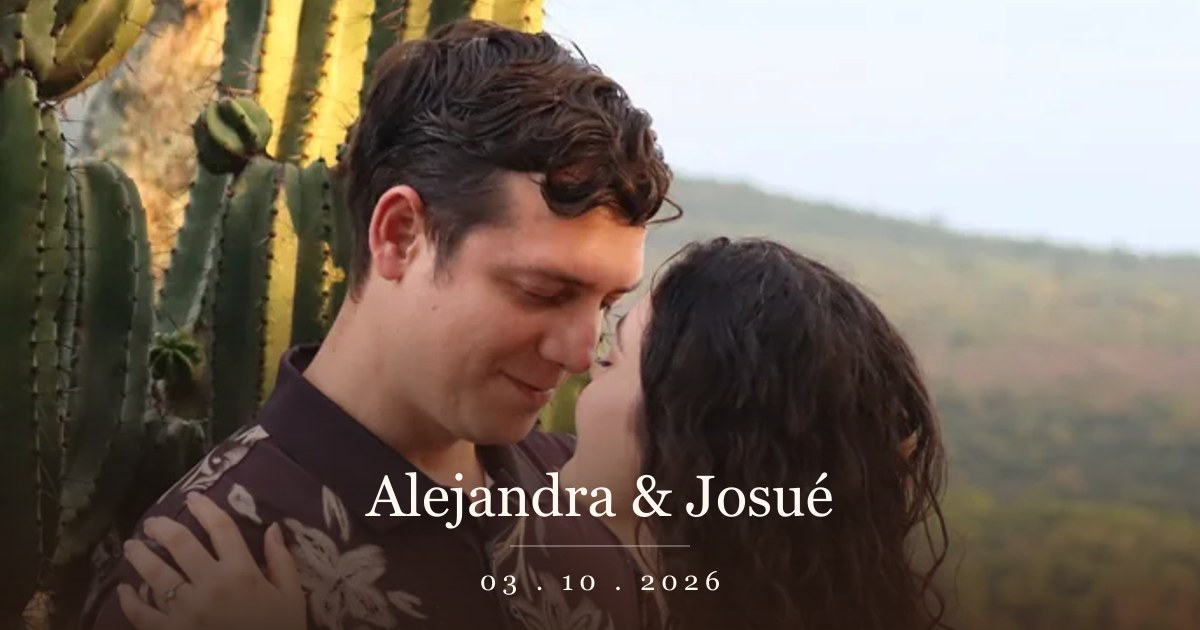
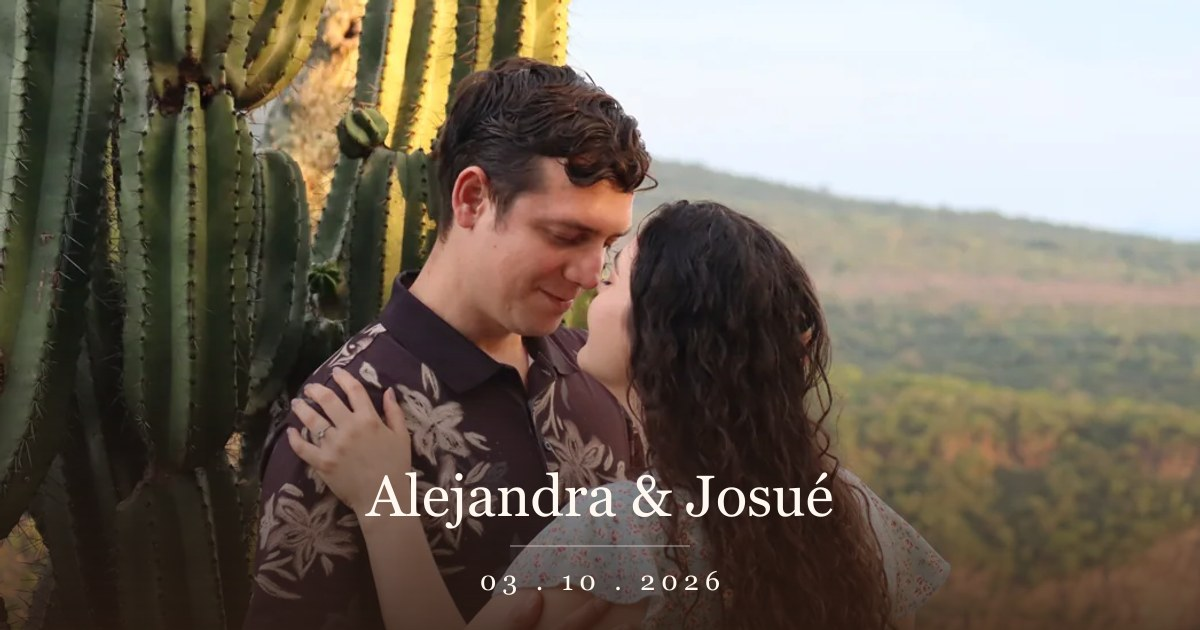
preview imagen 2

diff --git a/index.html b/index.html
@@ -24,8 +24,8 @@
     <meta property="og:url" content="https://ale-josue.pages.dev/" />
     <meta property="og:title" content="Alejandra &amp; Josué · Nos casamos" />
     <meta property="og:description" content="03 de octubre de 2026. Con el corazón lleno de alegría te invitamos a celebrar con nosotros." />
-    <meta property="og:image" content="https://ale-josue.pages.dev/preview.jpg?v=2" />
-    <meta property="og:image:secure_url" content="https://ale-josue.pages.dev/preview.jpg?v=2" />
+    <meta property="og:image" content="https://ale-josue.pages.dev/preview.jpg?v=3" />
+    <meta property="og:image:secure_url" content="https://ale-josue.pages.dev/preview.jpg?v=3" />
     <meta property="og:image:type" content="image/jpeg" />
     <meta property="og:image:width" content="1200" />
     <meta property="og:image:height" content="630" />
@@ -34,7 +34,7 @@
     <meta name="twitter:card" content="summary_large_image" />
     <meta name="twitter:title" content="Alejandra &amp; Josué · Nos casamos" />
     <meta name="twitter:description" content="03 de octubre de 2026. Con el corazón lleno de alegría te invitamos a celebrar con nosotros." />
-    <meta name="twitter:image" content="https://ale-josue.pages.dev/preview.jpg?v=2" />
+    <meta name="twitter:image" content="https://ale-josue.pages.dev/preview.jpg?v=3" />
   </head>
   <body>
     <div id="app"></div>
